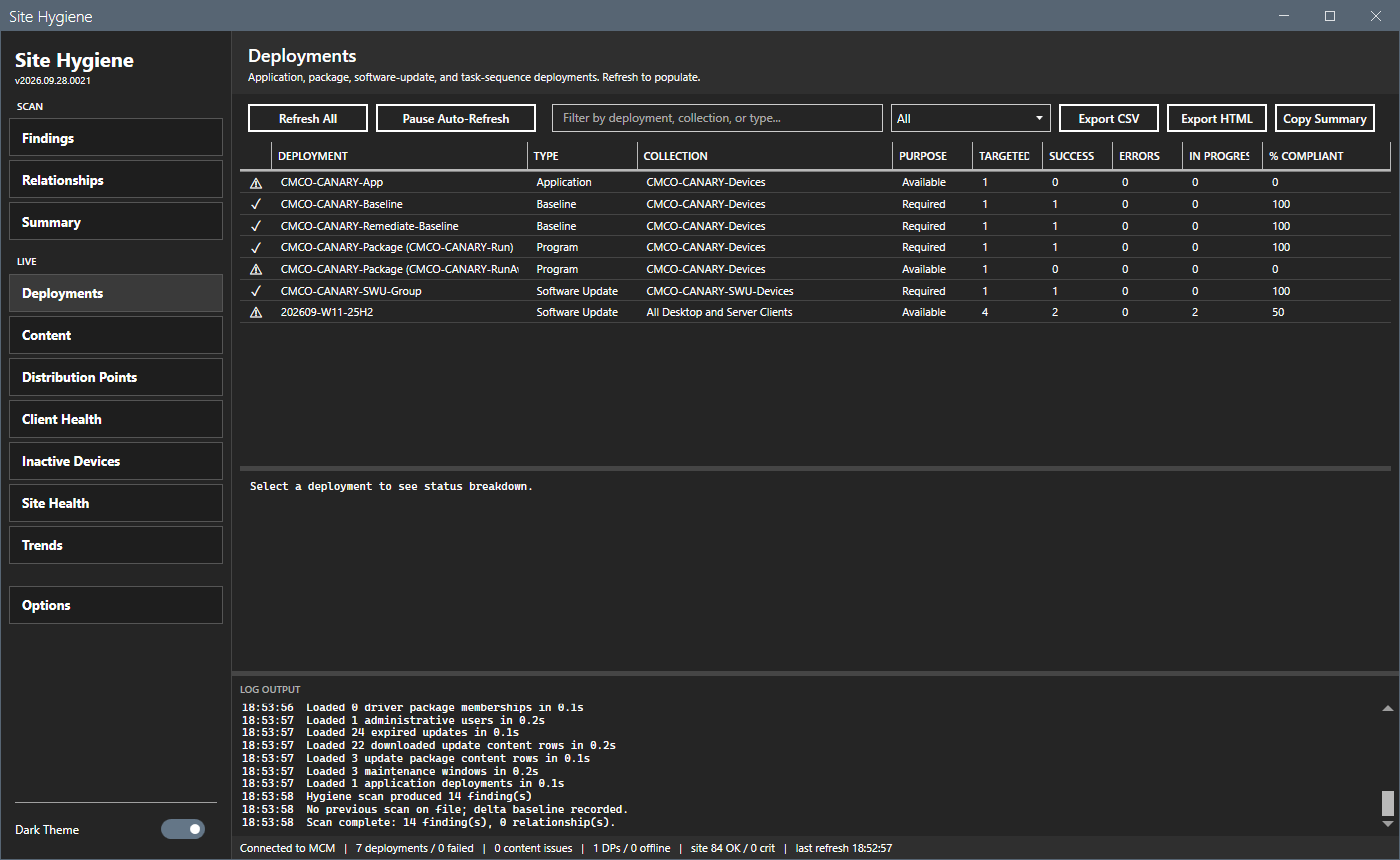
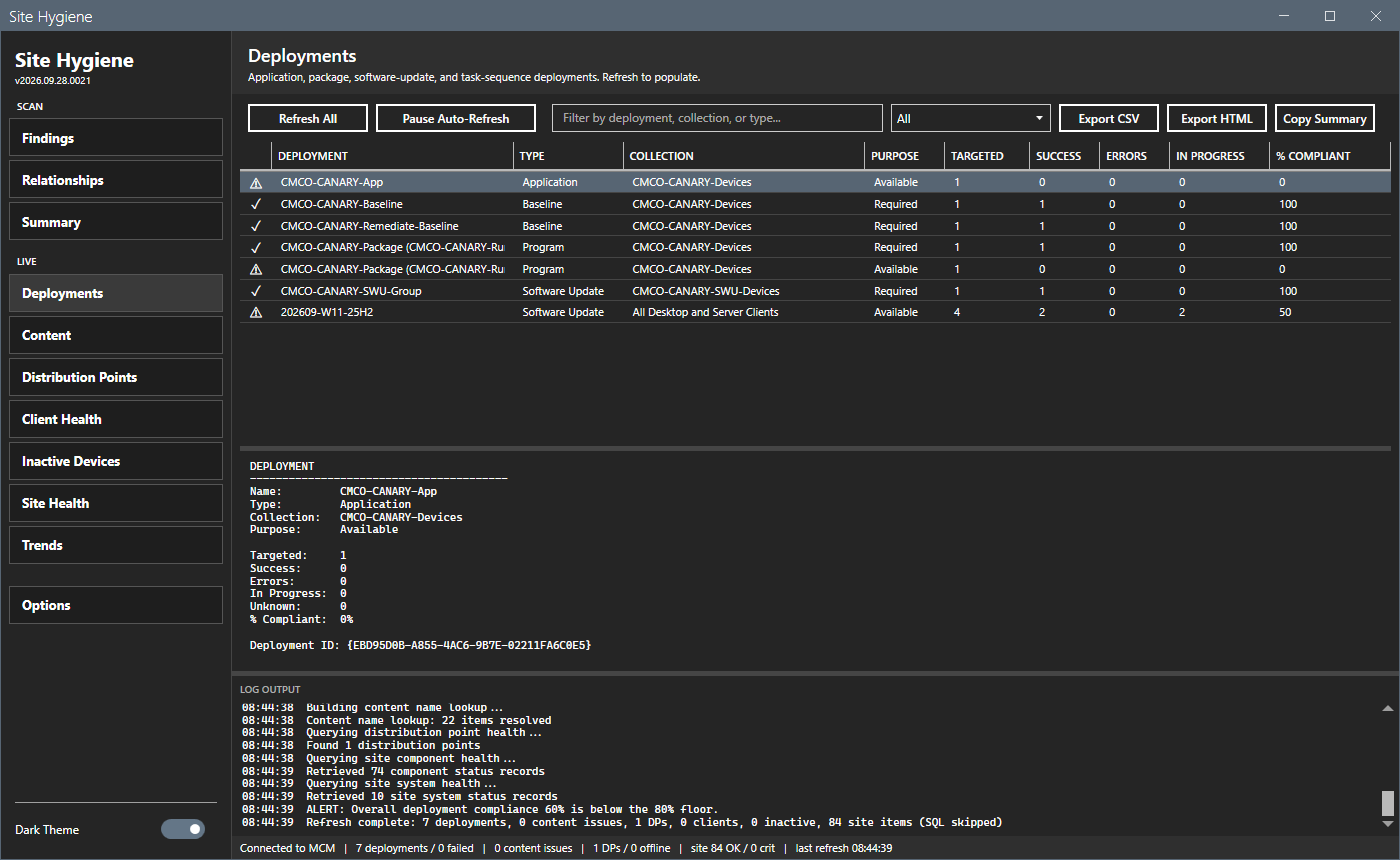
Widen clipped Deployments headers, match Live detail pane height to Findings, hide the filter box on Summary and Trends, draw the Trends chart in the theme accent; update the Deployments screenshot; 2026.09.29.0022

diff --git a/MainWindow.xaml b/MainWindow.xaml
@@ -523,7 +523,7 @@
                     <Grid.RowDefinitions>
                         <RowDefinition Height="*"/>
                         <RowDefinition Height="5"/>
-                        <RowDefinition Height="200"/>
+                        <RowDefinition Height="220"/>
                     </Grid.RowDefinitions>
 
                     <DataGrid x:Name="gridDeploy"
@@ -541,10 +541,10 @@
                             <DataGridTextColumn Header="Type" Width="110" Binding="{Binding DeploymentType}"/>
                             <DataGridTextColumn Header="Collection" Width="2*" Binding="{Binding CollectionName}"/>
                             <DataGridTextColumn Header="Purpose" Width="80" Binding="{Binding Purpose}"/>
-                            <DataGridTextColumn Header="Targeted" Width="70" Binding="{Binding NumberTargeted}"/>
+                            <DataGridTextColumn Header="Targeted" Width="85" Binding="{Binding NumberTargeted}"/>
                             <DataGridTextColumn Header="Success" Width="70" Binding="{Binding NumberSuccess}"/>
                             <DataGridTextColumn Header="Errors" Width="70" Binding="{Binding NumberErrors}"/>
-                            <DataGridTextColumn Header="In Progress" Width="80" Binding="{Binding NumberInProgress}"/>
+                            <DataGridTextColumn Header="In Progress" Width="100" Binding="{Binding NumberInProgress}"/>
                             <DataGridTextColumn Header="% Compliant" Width="*" Binding="{Binding PercentCompliant}"/>
                         </DataGrid.Columns>
                     </DataGrid>
@@ -564,7 +564,7 @@
                     <Grid.RowDefinitions>
                         <RowDefinition Height="*"/>
                         <RowDefinition Height="5"/>
-                        <RowDefinition Height="200"/>
+                        <RowDefinition Height="220"/>
                     </Grid.RowDefinitions>
 
                     <DataGrid x:Name="gridContent"
@@ -603,7 +603,7 @@
                     <Grid.RowDefinitions>
                         <RowDefinition Height="*"/>
                         <RowDefinition Height="5"/>
-                        <RowDefinition Height="200"/>
+                        <RowDefinition Height="220"/>
                     </Grid.RowDefinitions>
 
                     <DataGrid x:Name="gridDPs"
@@ -639,7 +639,7 @@
                     <Grid.RowDefinitions>
                         <RowDefinition Height="*"/>
                         <RowDefinition Height="5"/>
-                        <RowDefinition Height="200"/>
+                        <RowDefinition Height="220"/>
                     </Grid.RowDefinitions>
 
                     <DataGrid x:Name="gridClients"
@@ -679,7 +679,7 @@
                     <Grid.RowDefinitions>
                         <RowDefinition Height="*"/>
                         <RowDefinition Height="5"/>
-                        <RowDefinition Height="200"/>
+                        <RowDefinition Height="220"/>
                     </Grid.RowDefinitions>
 
                     <DataGrid x:Name="gridInactive"
@@ -717,7 +717,7 @@
                     <Grid.RowDefinitions>
                         <RowDefinition Height="*"/>
                         <RowDefinition Height="5"/>
-                        <RowDefinition Height="200"/>
+                        <RowDefinition Height="220"/>
                     </Grid.RowDefinitions>
 
                     <DataGrid x:Name="gridSite"

diff --git a/CHANGELOG.md b/CHANGELOG.md
@@ -2,6 +2,17 @@
 
 All notable changes to Site Hygiene are documented in this file.
 
+## [2026.09.29.0022] - 2026-09-29
+
+## Live views: 0 clipped headers or detail lines in either theme
+
+### Fixes
+
+- Show the full Targeted and In Progress headers on Deployments.
+- Show every detail line on the Live views without scrolling.
+- Hide the filter box on Summary and Trends instead of showing it disabled.
+- Draw the Trends chart in the theme accent color.
+
 ## [2026.09.28.0021] - 2026-09-28
 
 ## Live views: 0 crashes on view switch, 5 fewer WinRM sessions per refresh
